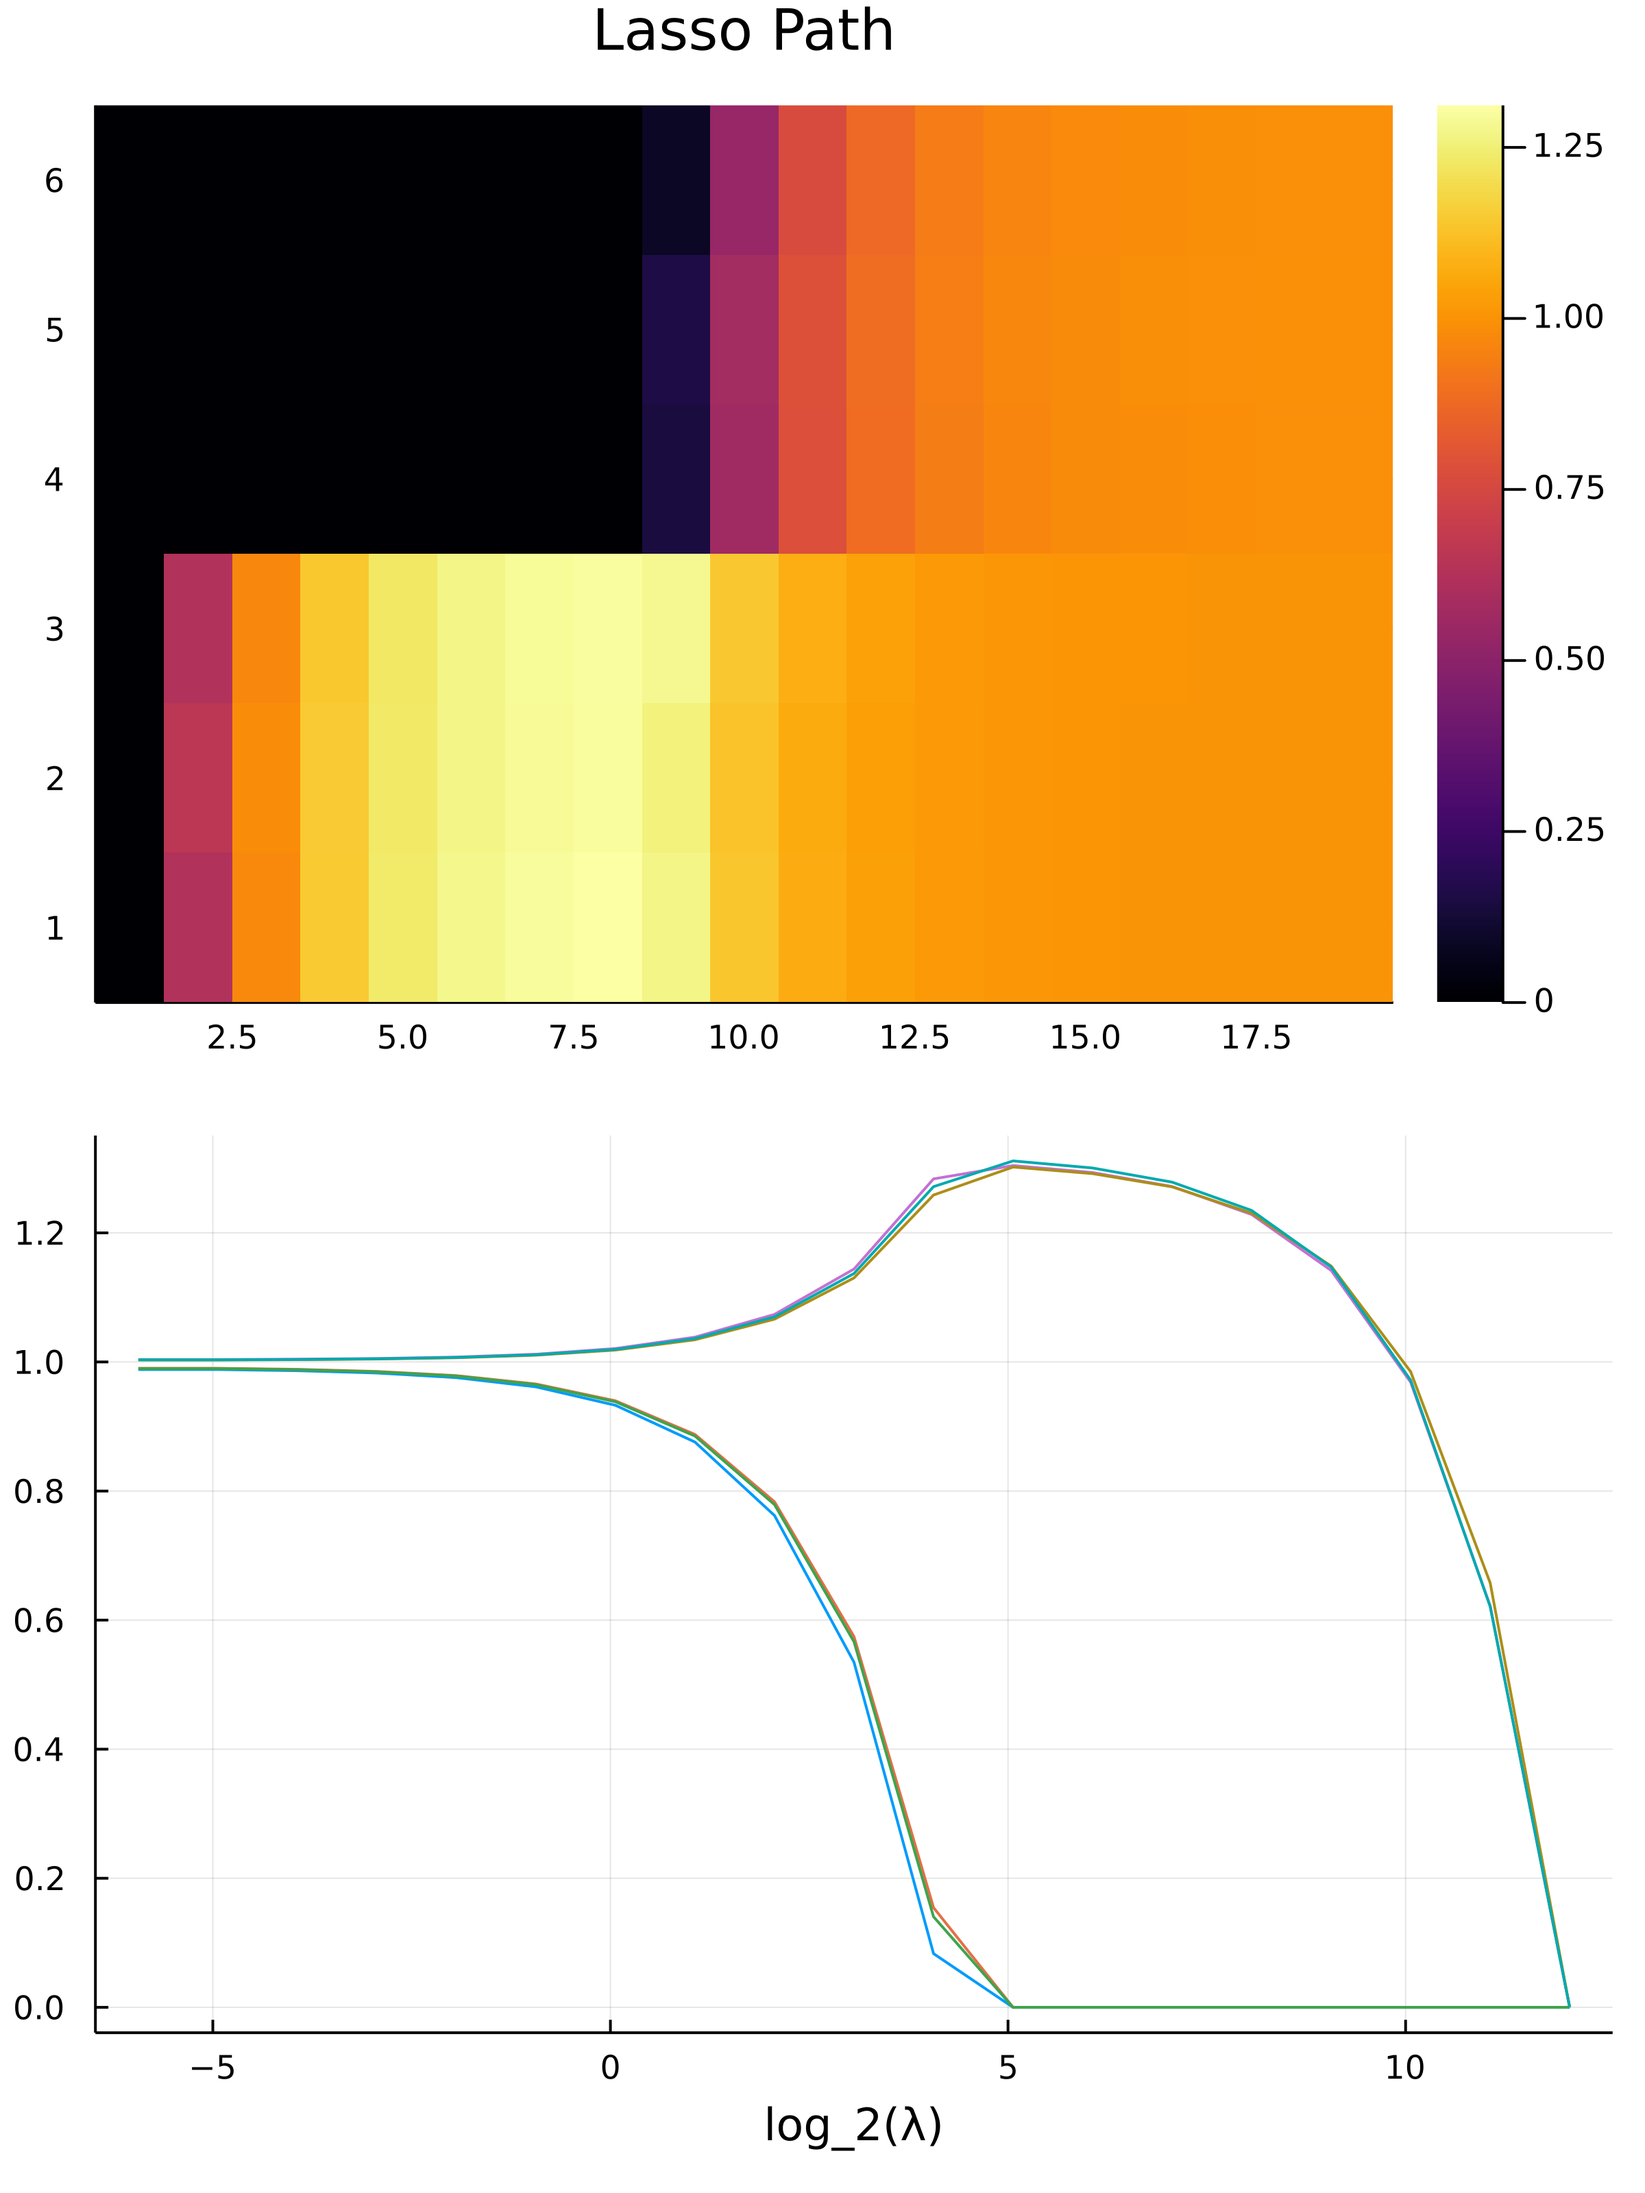
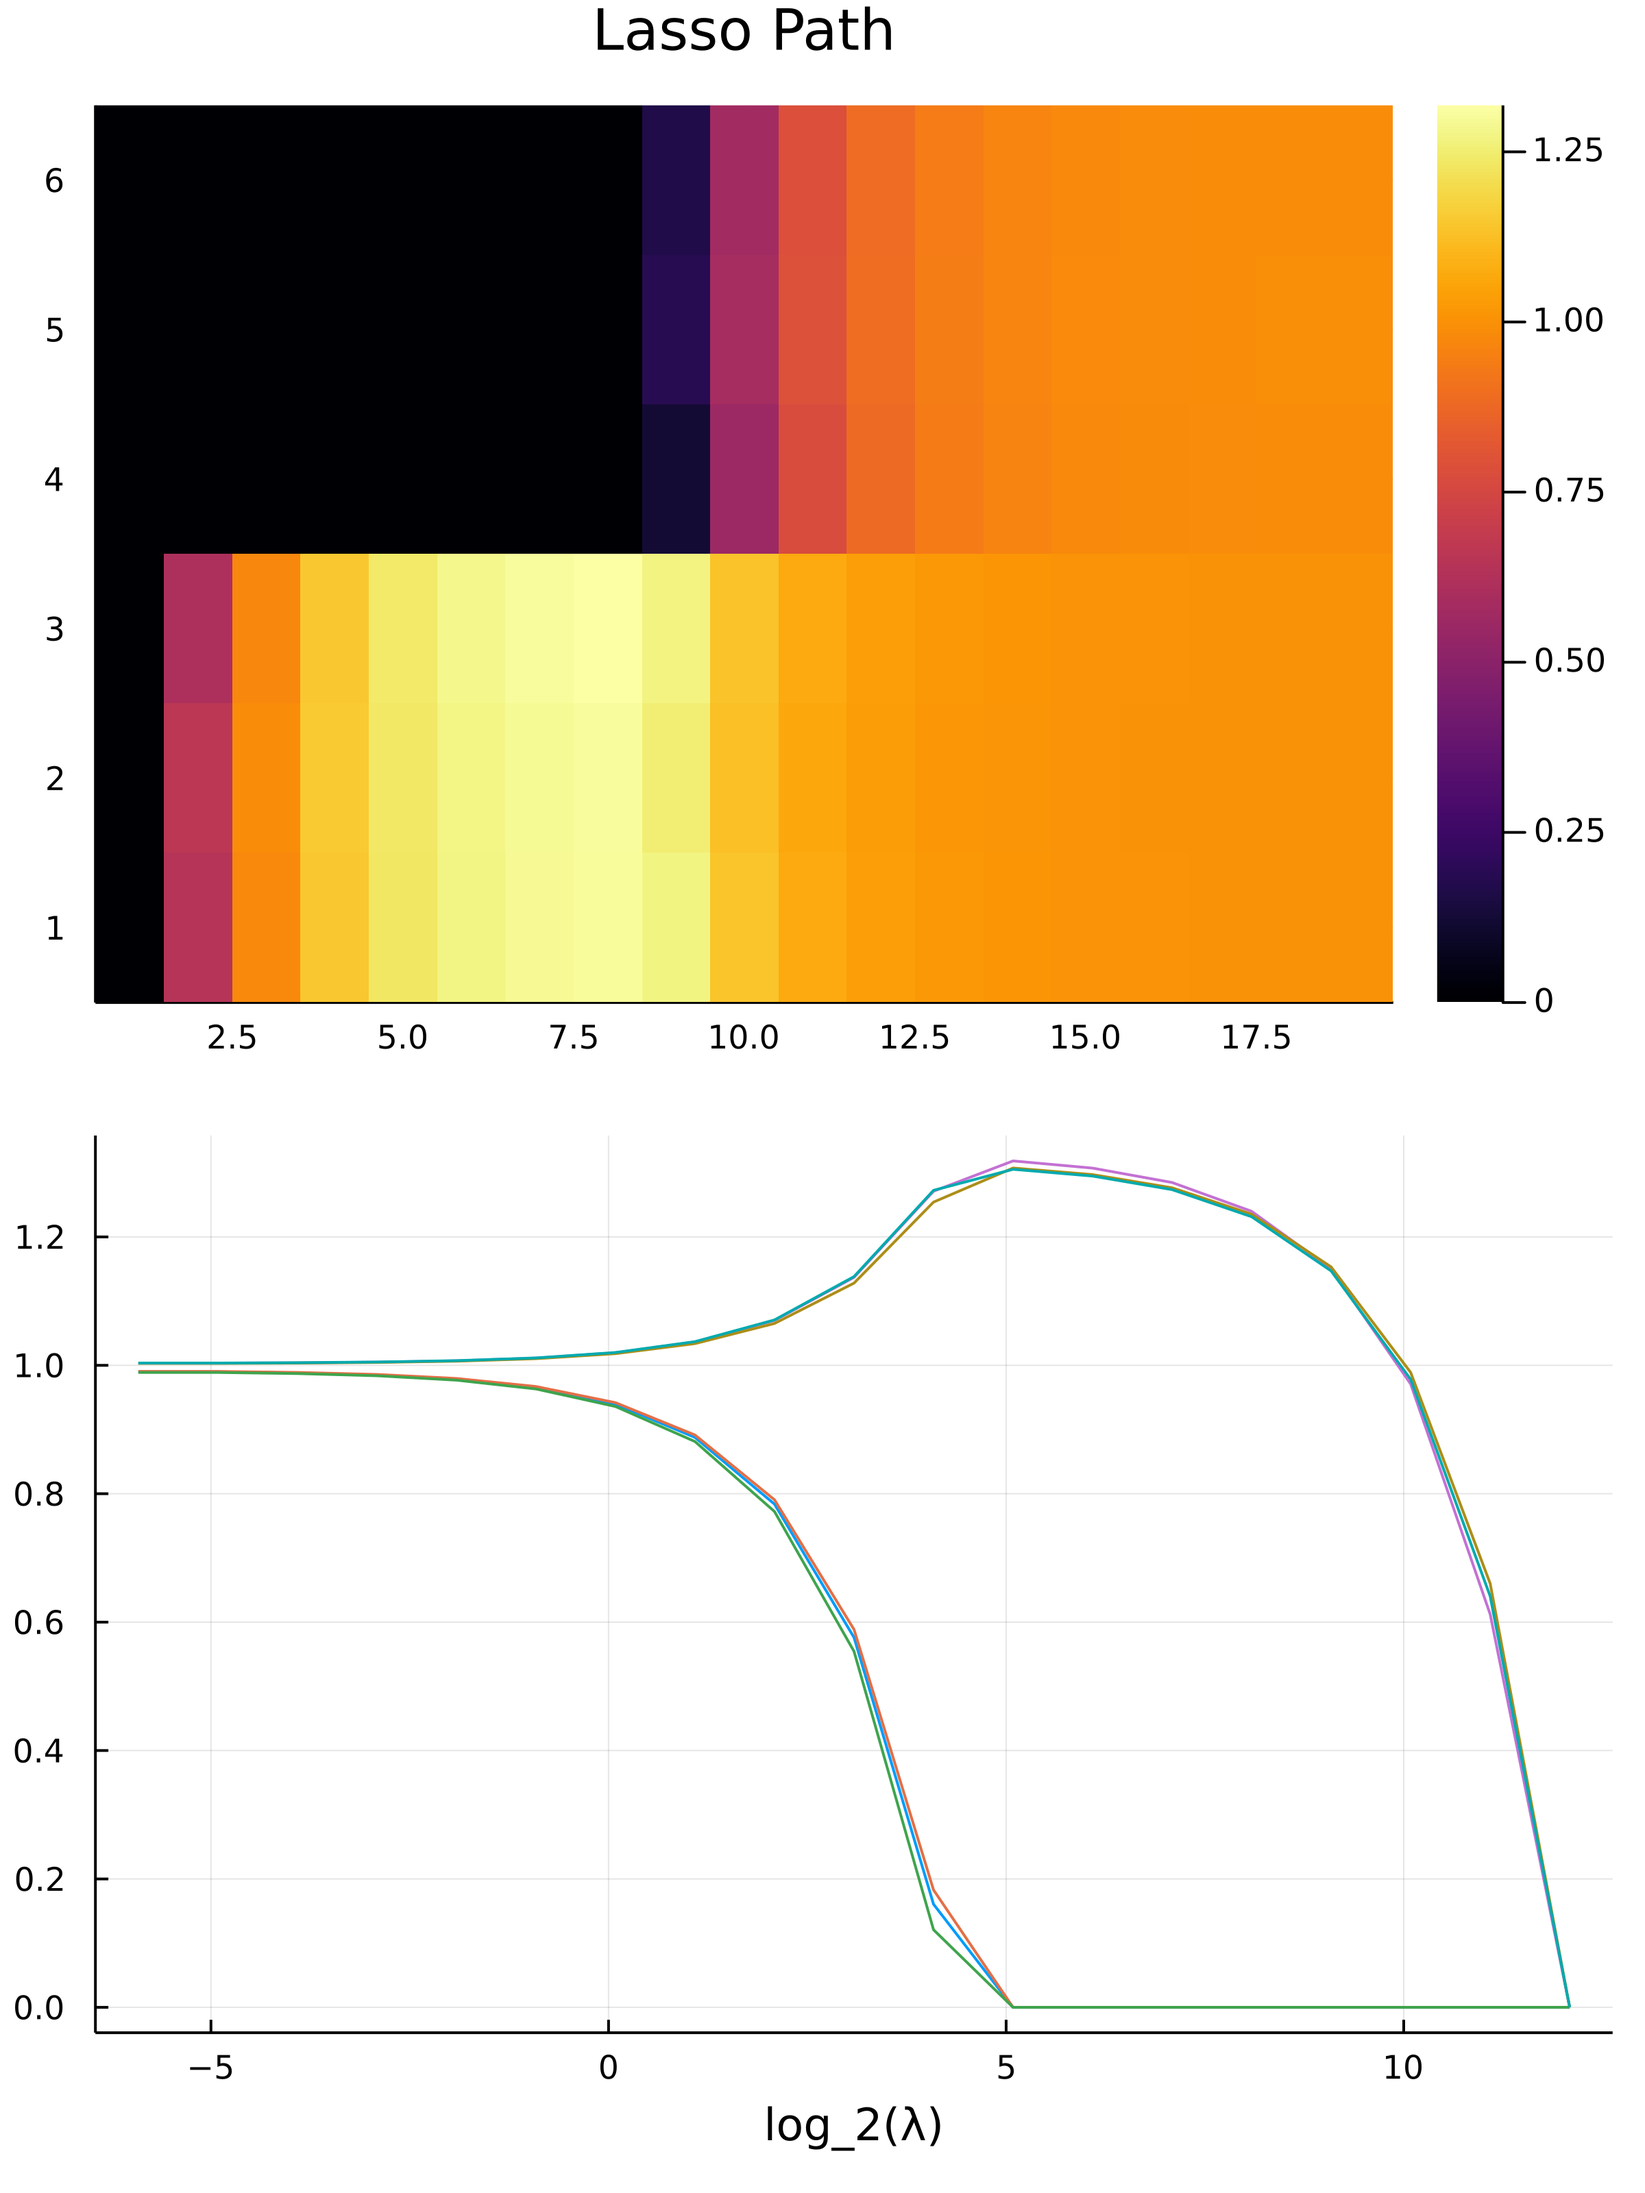
d

diff --git a/README.md b/README.md
@@ -16,7 +16,7 @@ Change the value of the L1 regularization until the solution reaches zero, then 
 
 The most important parameters are the ones that still stays as the penalization gets bigger. 
 
-**Approach**: 
+**Approach: Conic Programming**: 
 1. Phrase the lasso problem as a quadratic programming problem
 2. solve it with different parameters of lambda, with a warm start on the solver. 
 
@@ -25,12 +25,18 @@ The most important parameters are the ones that still stays as the penalization 
 
 * It's kinda redundant because it modifies the model for the solver each time. 
 
+**Warning** 
+
+The `JuMP.jl` frame work is EXTREMELY slow if you have big data, please avoid at all cost. 
+
+For Lasso I implemented by self-made Proximal Accelerated Graidient (FISTA), and it 's about 500 times faster than the quadratic solver, with better numerical precision too. 
+
 ---
 ### **Usage Examples**
 
 The crime dataset is analyzed in the file [here](./usage_examples/crime_data/data_analyze.jl), where we created the lasso path plot: 
 
-![](./usage_examples/crime_data/plot.png)
+![](./usage_examples/crime_data/lasso_proximal.png) 
 
 and the top predictors for crime rate over a county are identified to be: 
 
@@ -70,6 +76,7 @@ The usage for the package is simple, and it's like:
 cd("C:\\Users\\victo\\source\\repos\\Silly_Julia_stuff\\Julia Packages\\LassoPath\\usage_examples\\crime_data")
 using DelimitedFiles, CSV, DataFrames
 using LassoPath
+using BenchmarkTools
 
 Df = CSV.read("process_data.csv", DataFrame)
 Df = Df[!, Not([:state, :fold])]
@@ -79,26 +86,26 @@ A, b = Matrix(Df[:, Not(end)]), Df[:, end]
 
 PrintTitle("The Data is ready, we are ready for analyais now")
 
-lassoIntance = LassoSCOP(A, b)
-
-GetLassoPath(lassoIntance)
-
-VisualizeLassoPath(lassoIntance)
-
-predictorIndices, λ, ws = CaptureImportantWeights(lassoIntance, 10, 1e-2)
-
-PrintTitle("Important Predictors are")
-
-predictors = names(Df[:, Not(end)])[predictorIndices]
-impacts = map(ws) do x
-    if x >= 0 
-        return "+"
-    else 
-        return "-"
+function ShowResults(constructor::Function, fname::String)
+    lassoIntance = constructor(A, b)
+    GetLassoPath(lassoIntance)
+    VisualizeLassoPath(lassoIntance, fname=fname)
+    predictorIndices, λ, ws = 
+        CaptureImportantWeights(lassoIntance, 10, 1e-2)
+    PrintTitle("Important Predictors are")
+    predictors = names(Df[:, Not(end)])[predictorIndices]
+    impacts = map(ws) do x
+        if x >= 0 
+            return "+"
+        else 
+            return "-"
+        end
     end
+    display([reshape(predictors, :) reshape(impacts, :)])
 end
 
-display([reshape(predictors, :) reshape(impacts, :)])
+# @time ShowResults((x, y) -> LassoSCOP(x, y), "Lasso SCOP.png")
+@time ShowResults((x, y) -> LassoProximal(x, y), "Lasso Proximal.png")
 
 
 ```
